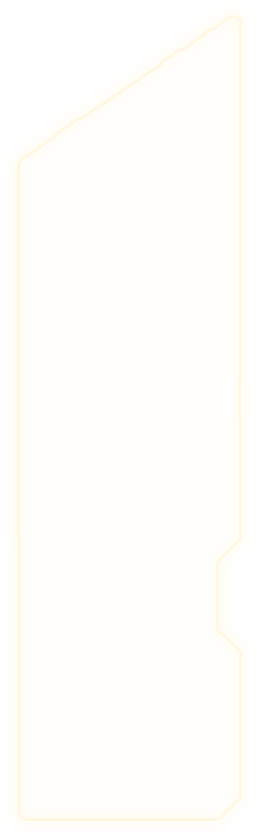
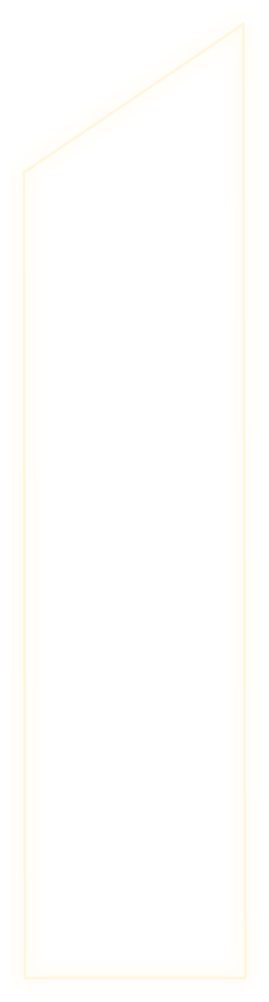
Cell 602 and 619 outlines cover the whole door; room 619 labeled correctly
- 602: straight 4-point outline from the frame top down to the bottom of the screen (no dent around the keyhole, no cut corner)
- 619: outline reaches the floor, bottom edge follows the floor's slope
- Hover label and cell number for the middle door are 619 (was 609), matching the plate on the door
- Click areas for both doors extended to the floor to match the outlines

diff --git a/game/outlines.js b/game/outlines.js
@@ -1,2 +1,2 @@
 // Viền sáng ôm theo hình từng đồ vật, tách tự động từ ảnh phòng (GrabCut). Tọa độ góc trên trái theo hệ 1920x1080.
-const OUTLINE = {"hall_0":[261,218],"hall_1":[647,278],"hall_2":[1084,229],"hall_3":[1475,82],"hallOffice_0":[698,148],"desk_0":[219,47],"desk2_0":[53,146],"desk2_1":[1030,525],"office_0":[213,713],"office_1":[544,720],"office_2":[1014,714],"office_3":[1322,714],"office_4":[1073,436],"corner_0":[264,88],"corner_1":[970,73],"corner_2":[1139,589],"hallWater_0":[1188,628],"hallKPI_0":[6,62],"hallKPI_1":[844,58],"boss_0":[29,306],"boss_1":[1200,242],"bossRight_0":[700,39],"cellDoor_0":[422,148],"cellDoor_1":[1379,275],"cells_0":[963,109],"cells_1":[738,364],"cells_2":[608,457],"cells_3":[320,523]};
+const OUTLINE = {"hall_0":[261,218],"hall_1":[647,278],"hall_2":[1084,229],"hall_3":[1475,82],"hallOffice_0":[698,148],"desk_0":[219,47],"desk2_0":[53,146],"desk2_1":[1030,525],"office_0":[213,713],"office_1":[544,720],"office_2":[1014,714],"office_3":[1322,714],"office_4":[1073,436],"corner_0":[264,88],"corner_1":[970,73],"corner_2":[1139,589],"hallWater_0":[1188,628],"hallKPI_0":[6,62],"hallKPI_1":[844,58],"boss_0":[29,306],"boss_1":[1200,242],"bossRight_0":[700,39],"cellDoor_0":[422,148],"cellDoor_1":[1379,275],"cells_0":[959,98],"cells_1":[737,358],"cells_2":[608,457],"cells_3":[320,523]};

diff --git a/game/game.js b/game/game.js
@@ -217,8 +217,8 @@ const VIEWS = {
     { x: 1385, y: 295, w: 360, h: 272, label: 'Bàn phím mật mã', act: () => openKeypad() },
   ], draw: drawCellBars },
   cells: { nav: [AR(493, 779, -120, () => cellAct(603), 'Buồng cuối dãy (603)'), BK('cellDoor')], spots: [
-    { x: 985, y: 125, w: 215, h: 800, label: 'Phòng 602', act: () => cellAct(602) },
-    { x: 760, y: 365, w: 85, h: 560, label: 'Phòng 609', act: () => cellAct(609) },
+    { x: 985, y: 125, w: 218, h: 955, label: 'Phòng 602', act: () => cellAct(602) },
+    { x: 761, y: 382, w: 83, h: 690, label: 'Phòng 619', act: () => cellAct(619) },
     { x: 630, y: 450, w: 50, h: 480, label: 'Phòng 601', act: () => cellAct(601) },
     { x: 340, y: 510, w: 145, h: 390, label: 'Buồng cuối dãy (603)', act: () => cellAct(603) },
   ] },
